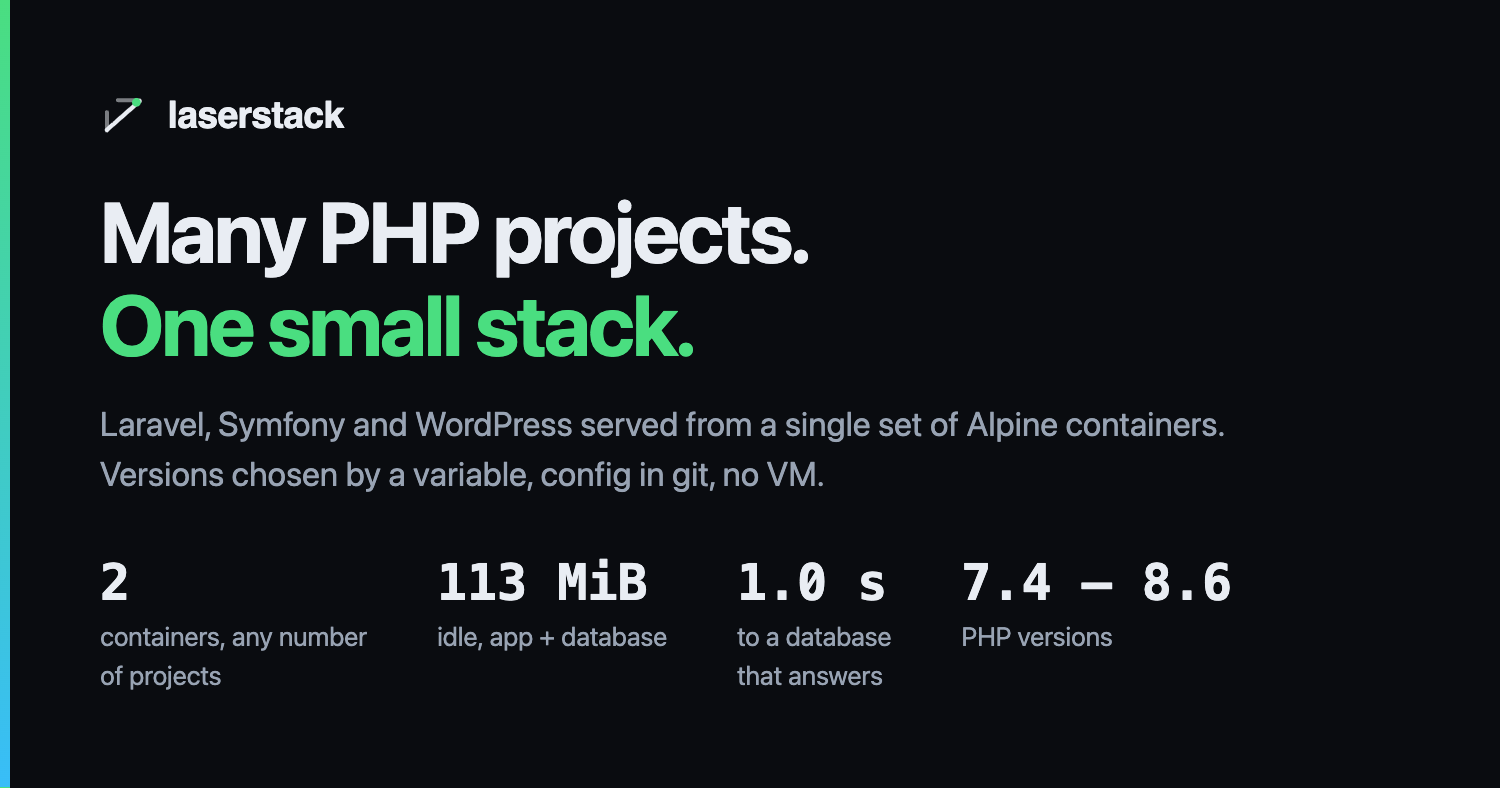
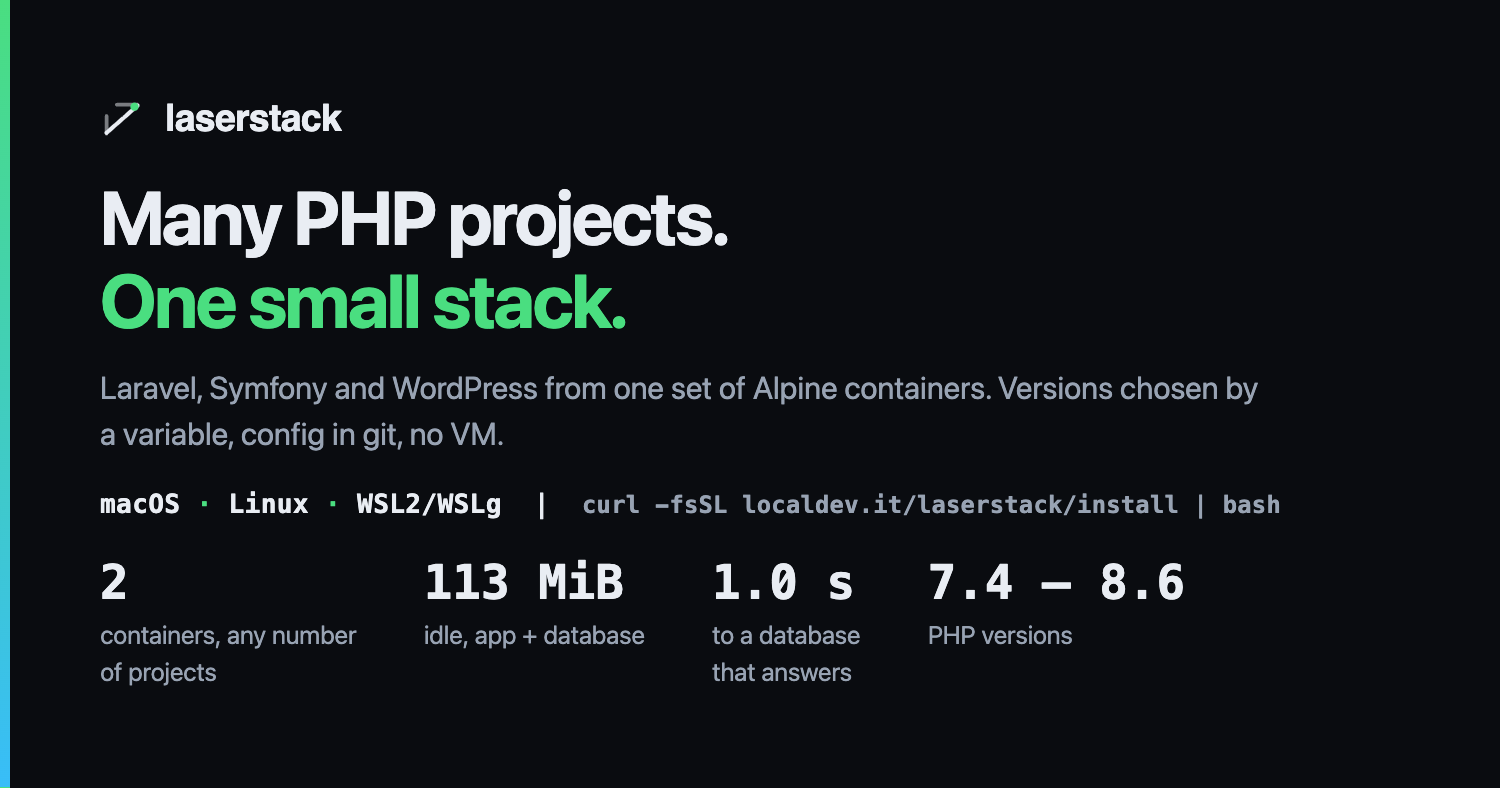
add the one-line installer and put the platforms up front
- docs/install: curl -fsSL https://localdev.it/laserstack/install | bash. It checks bash, git and docker with compose v2, clones the stack next to the projects or fast-forwards the checkout that is already there, writes env.example to .env when there is none, and prints the steps left. It touches nothing else: no system package, no shell profile, no daemon. Options --dir, --start, --help, and LASERSTACK_DIR in the environment
- the platforms lead the site now: the eyebrow, a paragraph under the hero, the platform lines in the terminal sample, a section on the features page with what each system needs, and the one-liner on the docs page, in the README and on the social card

The installer was run for real: through the pipe into /tmp, again against an existing checkout (fast-forward, .env left alone), and the copy served by the site answers 200. Every page was checked in a browser again, with no console errors.

diff --git a/docs/index.html b/docs/index.html
@@ -27,7 +27,7 @@
 
 <main>
 <section class="hero"><div class="wrap">
-  <p class="eyebrow">docker-compose · one shell script · BSD-3-Clause</p>
+  <p class="eyebrow">macOS · Linux · WSL2 · docker-compose · one shell script · BSD-3-Clause</p>
   <h1>Many PHP projects.<br>One small stack.</h1>
   <p class="lede">Laser Stack serves all of your Laravel, Symfony and WordPress projects from a single set of Alpine containers — one nginx, one PHP-FPM, one database server — with the PHP and database versions chosen by a variable. No VM, no per-project containers, no dashboard.</p>
   <div class="actions">
@@ -35,13 +35,16 @@
     <a class="btn" href="benchmarks.html">Measured numbers</a>
     <a class="btn" href="https://github.com/sdbruder/laserstack">Source on GitHub</a>
   </div>
+  <p class="install-line"><code>curl -fsSL https://localdev.it/laserstack/install | bash</code></p>
+  <p class="platforms"><strong>Runs on macOS, Linux and WSL2/WSLg</strong> — Intel and Apple silicon, any docker with compose v2 (Docker Desktop, OrbStack, Colima, the engine). It installs nothing on the host: no VM, no system package, no daemon of its own.</p>
 
   <div class="term" style="margin-top:2.2rem">
     <div class="bar"><i></i><i></i><i></i><span>a first run, end to end</span></div>
-<pre><code>$ git clone https://github.com/sdbruder/laserstack ~/src/laserstack
-$ cd ~/src/laserstack &amp;&amp; cp env.example .env
-<span class="out"># .env: PHP_VERSION=8.4, PROFILES=mysql,redis, your credentials</span>
-$ laser up -d
+<pre><code>$ curl -fsSL https://localdev.it/laserstack/install | bash
+<span class="out">  bash 5.3.20   git 2.56.0   docker 29.9.2   compose 5.7.0</span>
+<span class="out">  system macOS, arm64</span>
+<span class="out">  wrote .env from env.example in ~/src/laserstack</span>
+$ cd ~/src/laserstack &amp;&amp; laser up -d
 <span class="out">Container laserstack-app-1     Started</span>
 <span class="out">Container laserstack-db-1      Started</span>
 <span class="out">Container laserstack-redis-1   Started</span>
@@ -81,7 +84,7 @@ $ <span class="ok"># http://projecta.local and http://projectb.local are both se
     <div class="card"><h3>A CLI that stays out of the way</h3><p><code>laser</code> exposes every docker-compose command unchanged and adds the ones you type all day: <code>artisan</code>, <code>composer</code>, <code>php</code>, <code>npm</code>, <code>shell</code>, <code>mysql</code>, <code>psql</code>, <code>share</code>, <code>scan</code>.</p></div>
     <div class="card"><h3>Tested, not vibes</h3><p><code>test/smoke.sh</code> starts the stack once per PHP version and once per database profile and checks nginx, php-fpm, the php.ini of the repository, an HTTP response and the PDO path from the app container to the server. The 0.13.0 release was verified against every version of every engine.</p></div>
     <div class="card"><h3>No magic, no lock-in</h3><p>Nothing rewrites your compose file and nothing guesses. When a container is missing you get docker's own error, which is the error you can act on.</p></div>
-    <div class="card"><h3>macOS, Linux, WSL2</h3><p>Runs on arm64 and x86-64, on macOS, on Linux and in WSL2/WSLg. The projects directory is bind-mounted, so your editor keeps working on your own files.</p></div>
+    <div class="card"><h3>macOS, Linux, WSL2</h3><p>Official support for macOS (Intel and Apple silicon), Linux and WSL2/WSLg, with Docker Desktop, OrbStack, Colima or the docker engine. The projects directory is bind-mounted, so your editor keeps working on your own files.</p></div>
   </div>
 </div></section>
 

diff --git a/docs/features.html b/docs/features.html
@@ -58,6 +58,18 @@
   </table></div>
   <p>Only the profile of the mysql container answers on 3306 at a time: projects that point at <code>db</code> work with the <code>mysql</code> profile and with the <code>mariadb</code> profile, which is why the mariadb service carries that alias.</p>
 
+  <h2>Platforms</h2>
+  <p>Official support for the three environments developers use, with any docker that speaks compose v2 — and nothing at all installed on the host besides it:</p>
+  <div class="table-scroll"><table>
+    <thead><tr><th>system</th><th>what it needs</th><th>notes</th></tr></thead>
+    <tbody>
+      <tr><td><strong>macOS</strong></td><td>Docker Desktop, OrbStack or Colima</td><td>Intel and Apple silicon; the measurements on this site come from an M3 with OrbStack</td></tr>
+      <tr><td><strong>Linux</strong></td><td>docker engine with the compose v2 plugin</td><td>no desktop app, no VM</td></tr>
+      <tr><td><strong>WSL2 / WSLg</strong></td><td>Docker Desktop with the WSL2 backend</td><td>keep the projects inside the Linux filesystem (<code>~/src</code>), not under <code>/mnt/c</code>: bind mounts and file watching stay fast</td></tr>
+    </tbody>
+  </table></div>
+  <p>No VM of its own, no system package, no shell profile, no daemon: <code>laser</code> is a bash script and docker does the rest. The <a href="install">installer</a> checks bash, git and docker with compose v2 before it clones anything, and stops with a clear message when one of them is missing.</p>
+
   <h2 id="versions-are-variables">Versions are variables</h2>
   <p>One variable per engine selects the image tag <em>and</em> the config directory, so the settings of a version travel with it. As of release 0.13.0:</p>
   <div class="table-scroll"><table>

diff --git a/docs/docs.html b/docs/docs.html
@@ -35,12 +35,14 @@
   <ul>
     <li><strong>Docker</strong> with Compose v2 (<code>docker compose</code> or <code>docker-compose</code>). That is the only heavy dependency;</li>
     <li><strong>git</strong> and <strong>bash</strong> on the host. No PHP, no Node, no database client, no package from a language ecosystem — the containers carry those;</li>
-    <li><strong>macOS</strong> (Intel or Apple silicon), <strong>Linux</strong>, or <strong>Windows through WSL2/WSLg</strong>;</li>
+    <li><strong>macOS</strong> (Intel or Apple silicon), <strong>Linux</strong>, or <strong>Windows through WSL2/WSLg</strong> — on WSL keep the projects inside the Linux filesystem (<code>~/src</code>), not under <code>/mnt/c</code>, and the bind mounts stay fast;</li>
     <li>a directory where your projects live (this is what the stack mounts and serves), and the stack cloned next to it.</li>
   </ul>
 
   <h2>Install</h2>
-  <pre><code>git clone https://github.com/sdbruder/laserstack ~/src/laserstack
+  <pre><code>curl -fsSL https://localdev.it/laserstack/install | bash
+<span class="out"># or clone it yourself; the installer only does these steps for you:</span>
+git clone https://github.com/sdbruder/laserstack ~/src/laserstack
 cd ~/src/laserstack
 cp env.example .env          <span class="out"># laser also copies it on first use</span>
 <span class="out"># edit .env: PROJECTS_DIRECTORY, PHP_VERSION, PROFILES, credentials, SUFFIX</span>

diff --git a/docs/style.css b/docs/style.css
@@ -69,6 +69,9 @@ nav.site a[aria-current="page"], nav.site a:hover { color: var(--fg); text-decor
 .hero { padding: 4rem 0 2.5rem; border-bottom: 1px solid var(--line); }
 .hero .lede { font-size: clamp(1.05rem, 2.2vw, 1.3rem); color: var(--muted); max-width: 46rem; }
 .eyebrow { font: 600 .8rem/1 var(--mono); letter-spacing: .12em; text-transform: uppercase; color: var(--accent); margin-bottom: 1rem; }
+.platforms { color: var(--muted); font-size: .92rem; margin: 1.4rem 0 0; }
+.install-line { margin: 1.6rem 0 0; }
+.install-line code { font-size: .95rem; padding: .5em .7em; }
 .actions { display: flex; flex-wrap: wrap; gap: .6rem; margin-top: 1.6rem; }
 .btn { display: inline-block; padding: .6rem 1rem; border-radius: 10px; border: 1px solid var(--line); background: var(--panel); color: var(--fg); font-weight: 600; font-size: .95rem; }
 .btn:hover { text-decoration: none; border-color: var(--muted); }

diff --git a/CHANGELOG.md b/CHANGELOG.md
@@ -9,6 +9,12 @@ and this project adheres to [Semantic Versioning](https://semver.org/spec/v2.0.0
 
 ### Added
 
+- `docs/install`, the one-line installer served by the site:
+  `curl -fsSL https://localdev.it/laserstack/install | bash`. It checks bash,
+  git and docker with compose v2, clones the stack next to the projects (or
+  fast-forwards a checkout that is already there), writes `env.example` to
+  `.env` when there is none, and prints the steps left. It touches nothing else
+  on the machine: no system package, no shell profile, no daemon.
 - The project website, `docs/` in the repository, published by GitHub Pages at
   <https://localdev.it/laserstack/>: an overview with the measured cost of
   the stack, the features, the numbers with the method to reproduce them, a

diff --git a/README.md b/README.md
@@ -7,7 +7,15 @@ Sail and multi-project like Valet. Aims to be small and fast. It's opinionated:
 it does not support everything under the sun but it's configurable, you can
 customize the container to suit your needs.
 
-It supports macOS, WSL2, WSLg (Windows) and Linux and it needs docker.
+It supports macOS (Intel and Apple silicon), Linux, WSL2 and WSLg (Windows) and
+it needs docker with compose v2.
+
+Install it next to your projects with one line, or clone it yourself (see
+[Getting started](#getting-started)):
+
+```
+curl -fsSL https://localdev.it/laserstack/install | bash
+```
 
 Laser has a shell script around docker-compose as an interface to it, it exposes
 all docker-compose commands and extends it with its own subcommands.
